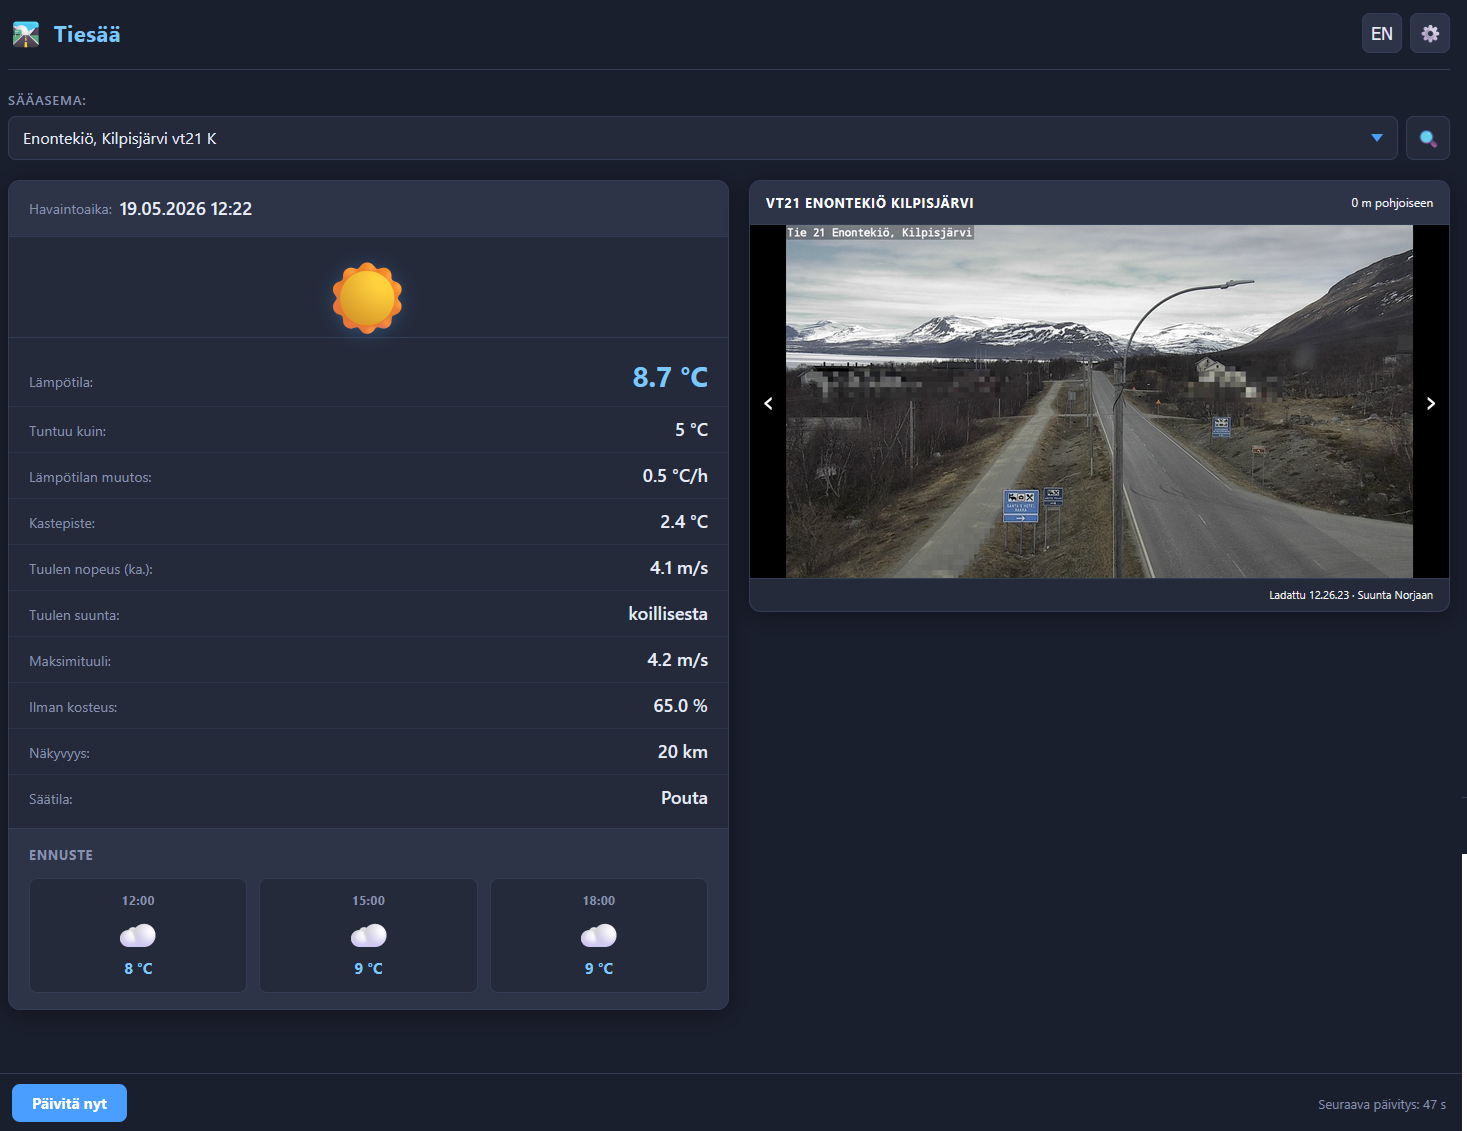
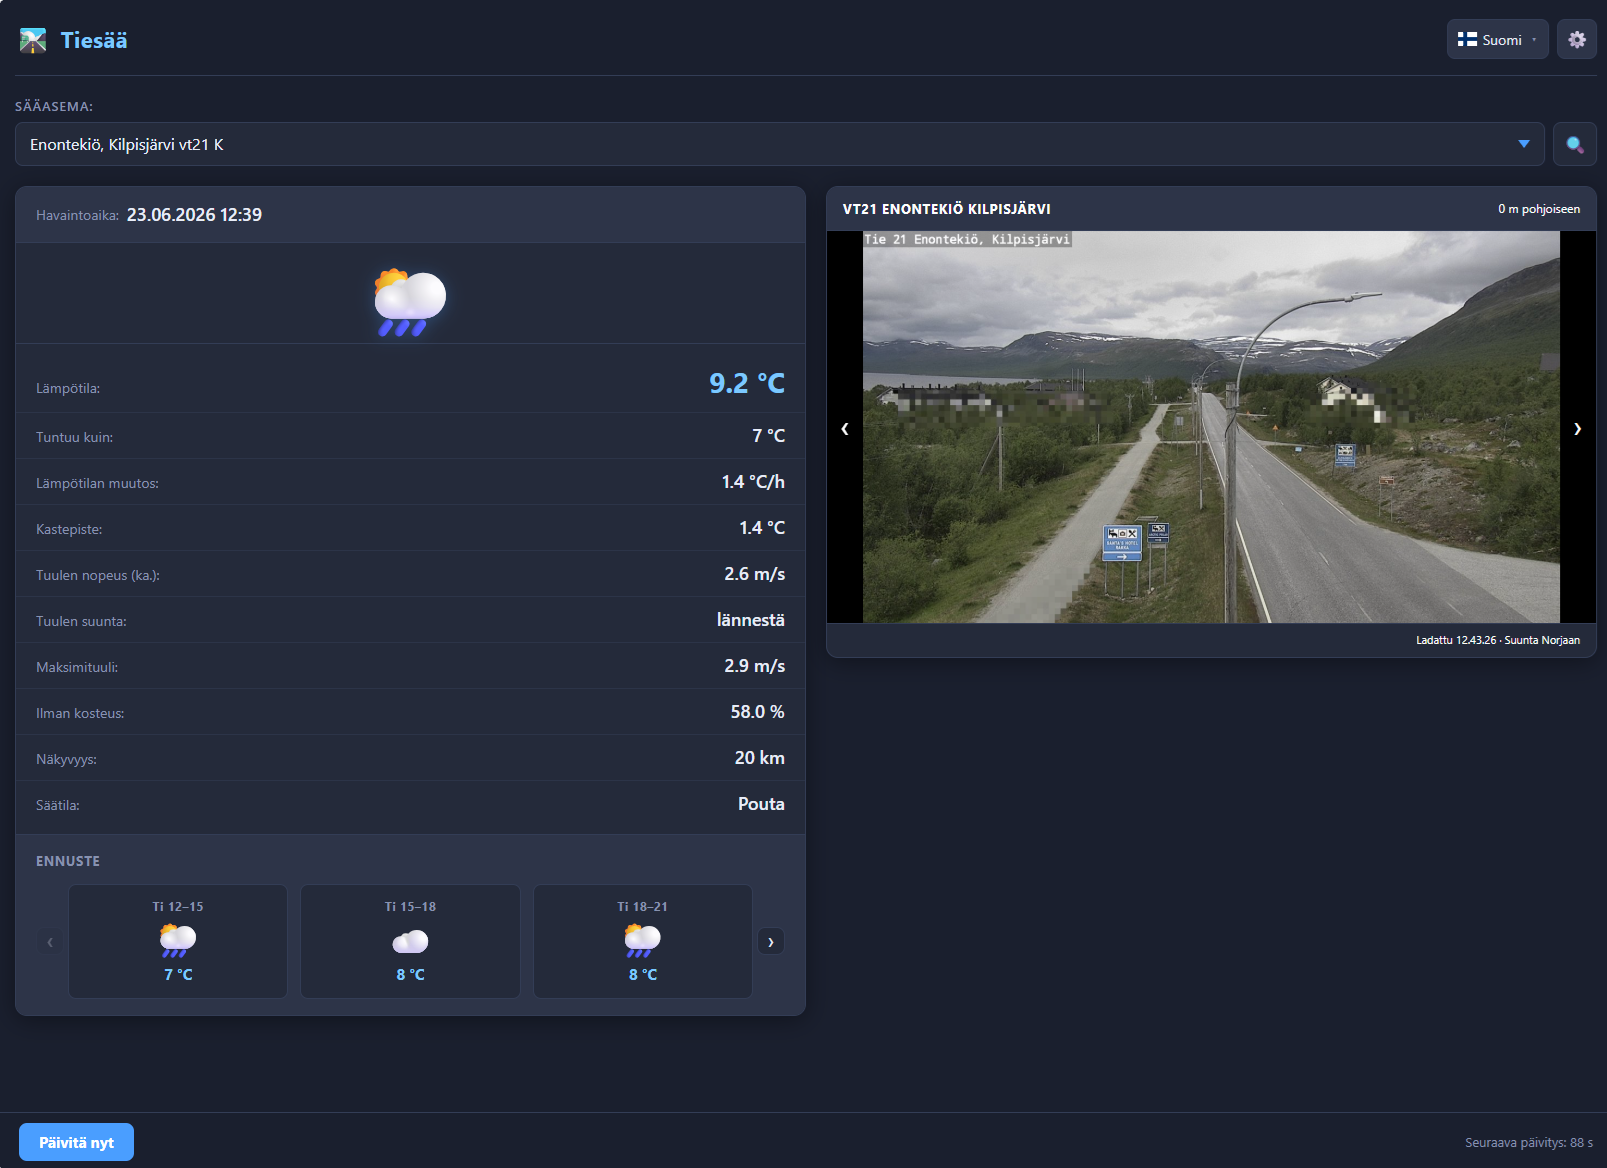
fix: preserve carousel position on camera panel refresh

diff --git a/weather/static/weather/js/camera.js b/weather/static/weather/js/camera.js
@@ -88,7 +88,7 @@ export function carouselGoTo(i) {
   }
 }
 
-function buildCarousel(presets, ts) {
+function buildCarousel(presets, ts, startIndex = 0) {
   carousel.slides = presets.map(p => ({ ...p, loaded: false }));
   carousel.index = 0;
   _dom.carouselTrack.innerHTML = '';
@@ -136,6 +136,9 @@ function buildCarousel(presets, ts) {
   _dom.cameraUpdated.textContent = first?.presentationName
     ? `${_labels().cameraDirection} ${first.presentationName}`
     : '';
+
+  const clampedIndex = Math.min(startIndex, presets.length - 1);
+  if (clampedIndex > 0) carouselGoTo(clampedIndex);
 }
 
 // ── Lightbox ─────────────────────────────────────────────────
@@ -221,5 +224,6 @@ export async function showCameraForStation(stationId) {
   } catch (_) { /* use presets without presentationName */ }
 
   if (presets.length === 0) return;
-  buildCarousel(presets, Date.now());
+  const previousIndex = carousel.index;
+  buildCarousel(presets, Date.now(), previousIndex);
 }

diff --git a/README.md b/README.md
@@ -1,8 +1,8 @@
 # weatherview-django
 
-A browser-based road weather viewer for Finnish roads. It combines live observations from [Digitraffic](https://www.digitraffic.fi/) road weather stations with short-range forecasts from [FMI open data](https://en.ilmatieteenlaitos.fi/open-data) (WFS API, no API key required).
+A browser-based road weather viewer for Finnish roads. It combines live observations from [Digitraffic](https://www.digitraffic.fi/) road weather stations with short-range forecasts from [FMI open data](https://en.ilmatieteenlaitos.fi/open-data).
 
-Pick any of 400+ Finnish road weather stations and view current observations, FMI feels-like temperature, wind, visibility, present weather, and forecast data directly in the browser.
+Pick any of 400+ Finnish road weather stations and view current observations, FMI feels-like temperature, wind, visibility, present weather, and forecast data directly in the browser, along with the latest pictures of the weather camera closest to the selected weather station.
 
 <img src="docs/screenshot.png" alt="Screenshot of the Tiesaa web UI" width="80%">
 
@@ -25,7 +25,7 @@ No database is required. User preferences are stored in signed-cookie sessions.
 
 ### Requirements
 
-- Python 3.11+ (tested on 3.13)
+- Python 3.13+ (tested on 3.13)
 - Internet access (Digitraffic + FMI open data)
 - Redis (optional for local development)
 
